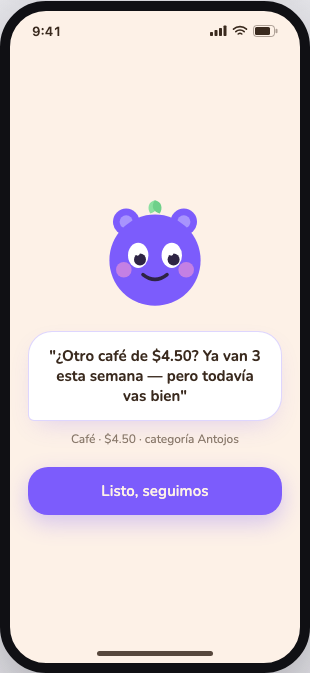
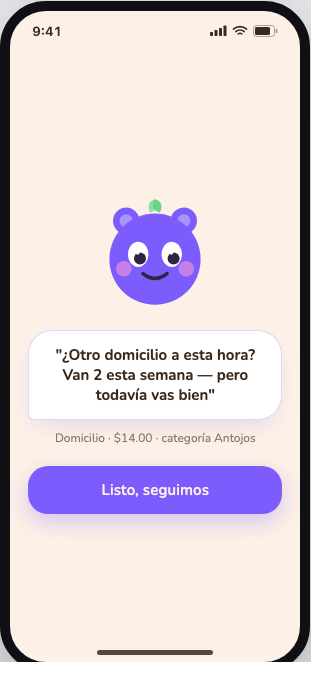
fix: diversificar el ejemplo del mecanismo (domicilio en vez de café repetido)
El usuario notó que la escena del hero y la del mockup del mecanismo
contaban casi lo mismo. Se regenera la captura desde vista-previa-app.html
con una experiencia de gasto distinta.

diff --git a/vista-previa-app.html b/vista-previa-app.html
@@ -290,8 +290,8 @@
           <circle cx="35.5" cy="50.5" r="1.8" fill="#fff"/><circle cx="63.5" cy="50.5" r="1.8" fill="#fff"/>
           <path d="M40 68q10 8 20 0" stroke="#2e2444" stroke-width="3" stroke-linecap="round" fill="none"/>
         </svg>
-        <div class="globo">"¿Otro café de $4.50? Ya van 3 esta semana — pero todavía vas bien"</div>
-        <p style="text-align:center;font-size:12px;color:var(--text-2);margin-top:10px;">Café · $4.50 · categoría Antojos</p>
+        <div class="globo">"¿Otro domicilio a esta hora? Van 2 esta semana — pero todavía vas bien"</div>
+        <p style="text-align:center;font-size:12px;color:var(--text-2);margin-top:10px;">Domicilio · $14.00 · categoría Antojos</p>
         <div class="cta" style="margin-top:20px;">Listo, seguimos</div>
       </div>
       <div class="home-indicator"></div>

diff --git a/ESTADO.md b/ESTADO.md
@@ -113,6 +113,8 @@ Tracker de gastos gamificado con una mascota de IA con personalidad: el usuario 
 - [RESUELTO 2026-09-17] El usuario probó la landing él mismo y dijo "siento que le falta punch de venta, a mí no me convence de comprar el app" — señal de negocio real, distinta de los hallazgos del revisor automático. Se reescribió el copy de Hero/Problema/Agitación/Solución/Oferta/CTA final con más fuerza emocional, usando las frases más viscerales de FICHA-AVATAR.md ("microinfarto", "irresponsable", "te quita la tarjeta de las manos").
 - [RESUELTO 2026-09-17] Feedback siguiente del usuario: "me gusta, pero esperaba menos texto y más recursos visuales". Se recortó copy en Agitación (3→2 frases), Solución (Big Idea a 1 frase), FAQ (las 5 respuestas al hueso) y el PS del CTA final · se agregó un puente visual NUEVO (no es de las 10 secciones canónicas, es un respiro entre Agitación y Solución) con la mascota + una frase corta ("Yo te aviso antes.") — la mascota ahora aparece en 2 puntos del scroll, no solo en el hero. No se relanzó el revisor-visual todavía — el gate de la landing sigue pausado a la espera de que el usuario decida cómo seguir.
 - [RESUELTO 2026-09-17] El usuario mandó una captura de otra app (MateFlex) como ejemplo de "menos plano" — tarjetas de producto superpuestas en capas, no bloques de texto sueltos. Se agregó al hero una card flotante con leve rotación y sombra ("14 días · de racha" con ícono de llama) superpuesta a la mascota, dentro del slot `visual` del kit (sin tocar el componente Hero) — ilustra el mecanismo de racha, no es un dato de uso real. Verificado con captura a 375px.
+- [RESUELTO 2026-09-17] El usuario dijo "no siento NECESITO esta app y visualmente está super plana". Se agregó un dato-héroe entre Agitación y Solución con la cifra REAL de FICHA-AVATAR.md ($1.800–$2.400/año en gastos hormiga — antes el copy usaba un cálculo inventado de $500/año, más débil que la evidencia real de la ficha) y una captura real del mecanismo (`/mockups/mecanismo.png`) justo después de la Solución, para que se vea el producto funcionando ahí mismo. Se relanzó el revisor-visual (4ª pasada) para confirmar si esto resuelve los dos problemas.
+- [RESUELTO 2026-09-17] El usuario notó que el ejemplo del "café" se repetía (la burbuja del hero y la captura del mecanismo contaban casi la misma escena) y pidió más variedad de experiencias. Se regeneró `/mockups/mecanismo.png` desde `vista-previa-app.html` (VISTA 4) con una escena de domicilio en vez de café — el hero conserva su escena de café, el mecanismo ahora muestra una distinta.
 
 ## Pendientes del usuario (acciones que el usuario debe hacer)
 - [ ] Confirmar el nombre definitivo de la app: CashPet (nombre de carpeta/archivo del usuario) vs Fintchi (nombre tentativo de su propia investigación) vs RegañadorFinanciero

diff --git a/docs/copy/landing.md b/docs/copy/landing.md
@@ -45,6 +45,9 @@ anota el gasto y su mascota reacciona al instante, antes de que llegue el arrepe
   3. **Sube tu racha** — `Cada día sin pasarte del límite, tu mascota crece.`
 - Antes/Después — Antes: `Descubres el daño a fin de mes, cuando ya no hay nada que hacer.` · Después: `Tu mascota te frena en el momento — antes de que la tarjeta salga de tu cartera.`
 
+## Puente visual (NO es sección canónica — captura real del mecanismo, justo después de la Solución)
+- Frame de teléfono con `/mockups/mecanismo.png`: la mascota reaccionando a un domicilio (antes decía "café" — el usuario notó que se repetía la misma escena del hero y pidió más variedad de experiencias, ver ESTADO.md)
+
 ## 5. LA APP POR DENTRO (placeholders honestos — screenshots reales pendientes de Sesión 5)
 - Título marcado: `Tu día, con [acento]mascota incluida[/acento]`
 - Frames: `Tu pantalla de cada día` (Hoy) · `Así te pregunta al empezar` (Onboarding) · `Elige tu plan en segundos` (Paywall) · `Así reacciona tu mascota` (Mecanismo)
